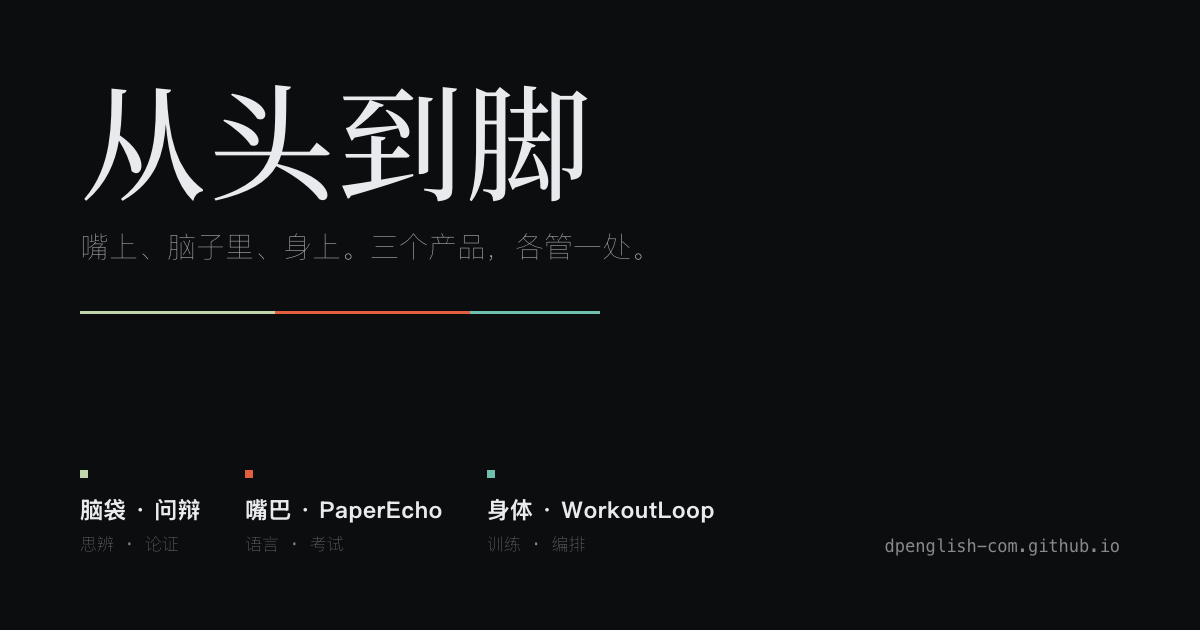
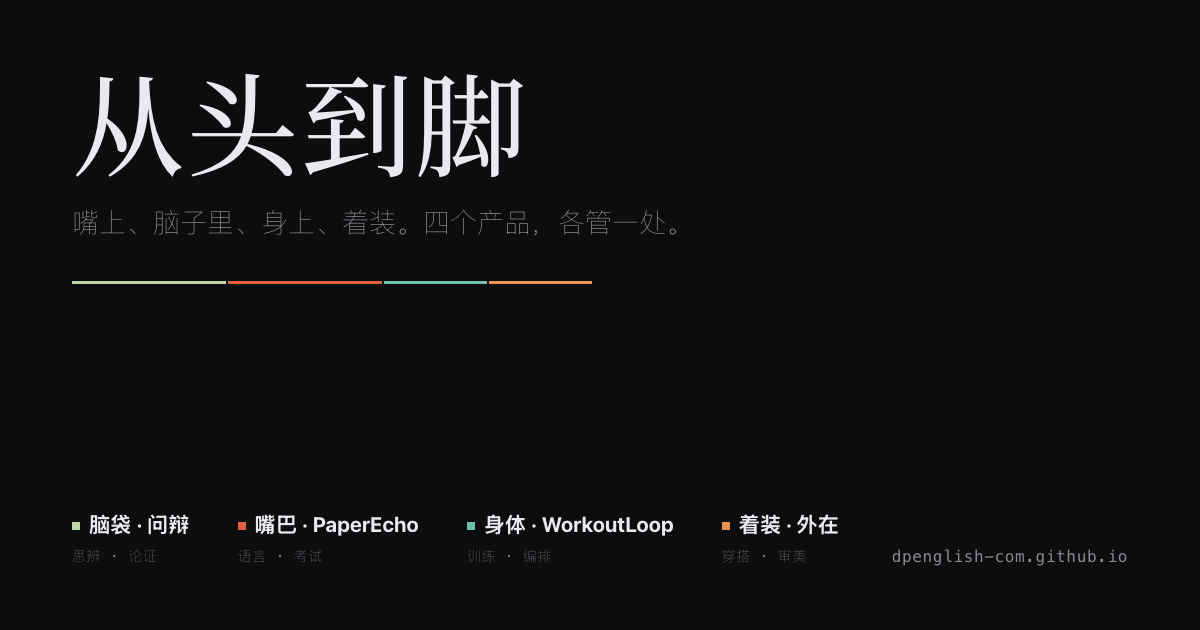
分享卡片改成可重跑，并补上第四个产品
assets/og.png 一直是外部产出的、仓库里没有生成脚本，所以加了第四个产品之后
卡片上还写着「三个产品」—— 页面改了，卡片没跟着改。

- tools/og.html：卡片模板，字体留占位符
- tools/make-og.mjs：从 index.html 取那份内嵌的词标子集填进去再出图，
  于是「从头到脚」四个字在页面和卡片上永远同源，不会再各写一份
- 卡片内容更新：四个产品行（含着装 · 外在）与四段色码条
- npm run og 一条命令重出图

diff --git a/tools/og.html b/tools/og.html
@@ -1,0 +1,44 @@
+<!doctype html><html lang="zh-CN"><head><meta charset="utf-8">
+<!--
+  社交分享卡片（assets/og.png，1200×630）的模板。
+  不要直接开这个文件：@font-face 里的字体占位符要由 tools/make-og.mjs
+  换成人形站点里那份内嵌的词标子集（base64），字体才只有一处来源。
+  渲染命令看那个脚本。改这里之后跑一次 node tools/make-og.mjs，它会重新出图。
+-->
+<style>
+@font-face{font-family:"Wordmark";src:url(__FONT__) format("woff2");font-weight:500;font-style:normal}
+:root{
+  --bg:#0C0D0F; --ink:#E8EAED; --ink-2:#AAACAF; --ink-3:#888A8E;
+  --wb:#C0D5AC; --pe:#E2603F; --wl:#6FBFAE; --os:#E8944F;
+  --sans:-apple-system,BlinkMacSystemFont,"PingFang SC","Hiragino Sans GB","Source Han Sans SC","Noto Sans SC",system-ui,sans-serif;
+  --mono:ui-monospace,"SF Mono",SFMono-Regular,Menlo,monospace;
+}
+*{box-sizing:border-box}
+html,body{margin:0;width:1200px;height:630px;overflow:hidden;background:var(--bg)}
+body{padding:64px 72px;display:flex;flex-direction:column;justify-content:space-between;
+  font-family:var(--sans);color:var(--ink);-webkit-font-smoothing:antialiased}
+h1{margin:0;font-family:"Wordmark","Songti SC","Source Han Serif SC",serif;font-weight:500;
+  font-size:112px;line-height:1.0;letter-spacing:.02em}
+.lead{margin:26px 0 0;font-size:27px;color:var(--ink-2);line-height:1.5}
+.codebar{display:flex;gap:2px;height:3px;width:520px;margin-top:38px}
+.codebar i{display:block;height:100%}
+.row{display:flex;align-items:flex-end;gap:48px}
+.item .k{display:flex;align-items:baseline;gap:9px}
+.dot{display:inline-block;width:8px;height:8px;flex:none;transform:translateY(-2px)}
+.item .n{font-size:21px;font-weight:700;white-space:nowrap}
+.item .s{font-family:var(--mono);font-size:14px;color:var(--ink-3);margin-top:7px;letter-spacing:.04em;white-space:nowrap}
+.url{margin-left:auto;font-family:var(--mono);font-size:16px;color:var(--ink-3);letter-spacing:.04em;white-space:nowrap}
+</style></head><body>
+<div>
+  <h1>从头到脚</h1>
+  <p class="lead">嘴上、脑子里、身上、着装。四个产品，各管一处。</p>
+  <div class="codebar"><i style="flex:3;background:var(--wb)"></i><i style="flex:3;background:var(--pe)"></i><i style="flex:2;background:var(--wl)"></i><i style="flex:2;background:var(--os)"></i></div>
+</div>
+<div class="row">
+  <div class="item"><div class="k"><span class="dot" style="background:var(--wb)"></span><span class="n">脑袋 · 问辩</span></div><div class="s">思辨 · 论证</div></div>
+  <div class="item"><div class="k"><span class="dot" style="background:var(--pe)"></span><span class="n">嘴巴 · PaperEcho</span></div><div class="s">语言 · 考试</div></div>
+  <div class="item"><div class="k"><span class="dot" style="background:var(--wl)"></span><span class="n">身体 · WorkoutLoop</span></div><div class="s">训练 · 编排</div></div>
+  <div class="item"><div class="k"><span class="dot" style="background:var(--os)"></span><span class="n">着装 · 外在</span></div><div class="s">穿搭 · 审美</div></div>
+  <div class="url">dpenglish-com.github.io</div>
+</div>
+</body></html>

diff --git a/README.md b/README.md
@@ -8,6 +8,7 @@
 - 单文件静态站：`index.html` 就是全部产物（CSS/JS/词标子集内联）
 - **零依赖、零构建、零外部请求**：没有 CDN、没有字体外链、没有分析脚本
 - `404.html` 与 `index.html` 的四处产品内容都由 `data/products.json` 生成
+- 分享卡片 `assets/og.png` 由 `node tools/make-og.mjs` 生成（字体取自 index.html，同源）
 - 每个产品两个动作：**查看视频**（`assets/video/*.mp4`，21–22 秒的使用演示片）
   与**在线试用**（`assets/demo/*.html`，离线可交互、手机/平板两种布局）。
   两个都开在同一个悬浮窗里；视频 `preload=none`、iframe 开窗才建 —— 不点开就不加载
